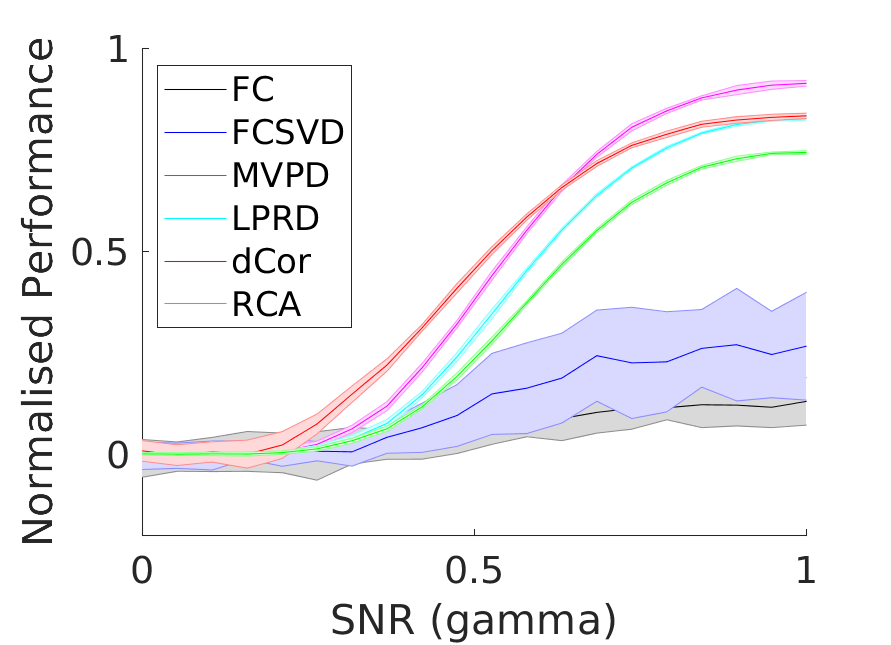
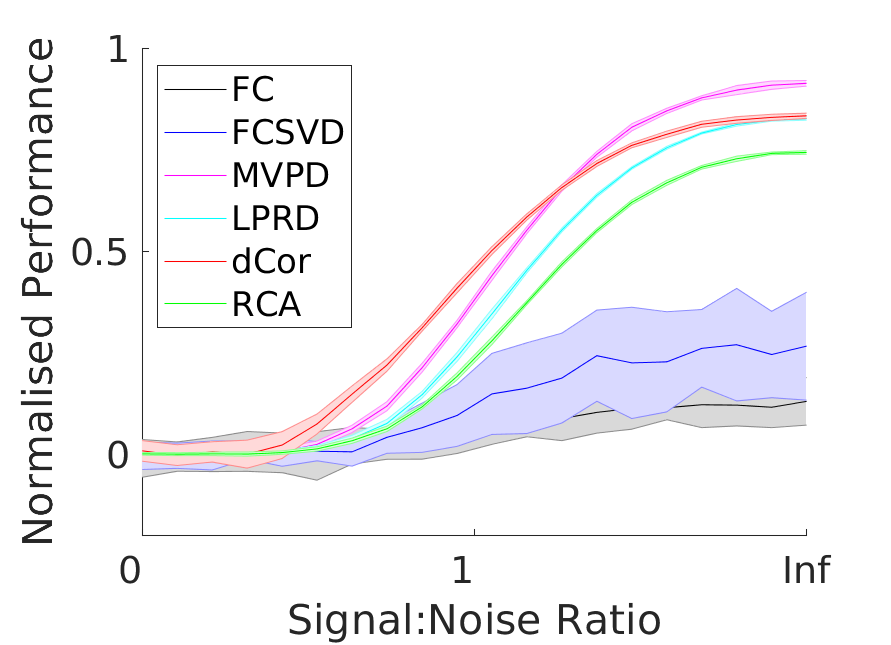
Changed x-axis to SNR

diff --git a/noiseEffect_example3.m b/noiseEffect_example3.m
@@ -59,8 +59,9 @@ s4=shadedErrorBar(gammas,y(:,4),se(:,4),'c');
 s5=shadedErrorBar(gammas,y(:,5),se(:,5),'r');
 s6=shadedErrorBar(gammas,y(:,6),se(:,6),'g');
 legend([s1.mainLine s2.mainLine s3.mainLine s4.mainLine s5.mainLine s6.mainLine],methods,'Location','NorthWest');
-xlabel('SNR (gamma)')
+xlabel('Signal:Noise Ratio')
 ylabel('Normalised Performance')
 set(gca,'FontSize',18)
+set(gca,'XTick',[0 0.5 1],'XTickLabel',[0 1 Inf])
 saveas(gcf,fullfile('Graphics','mvcon_example3_noise.png'),'png')
 
